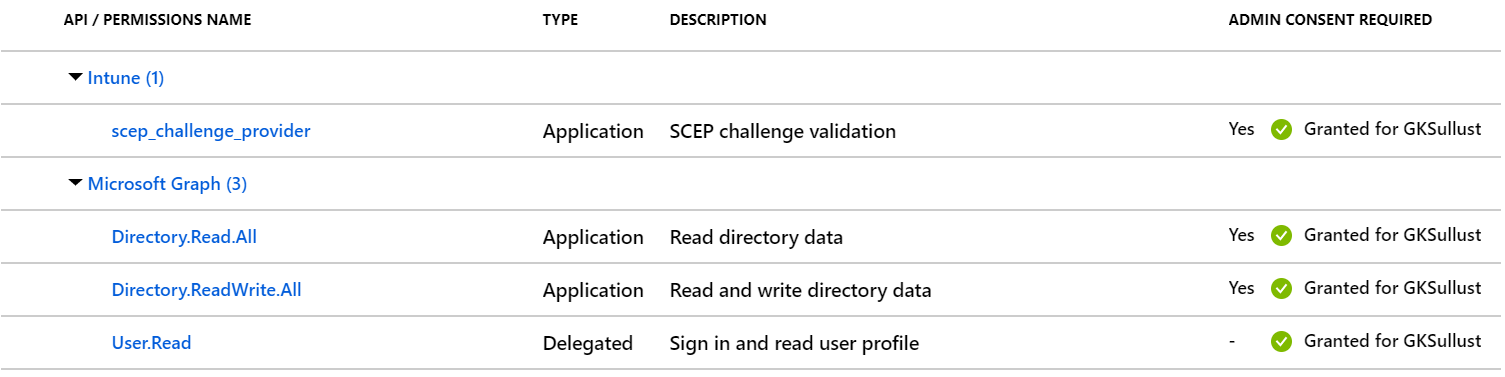
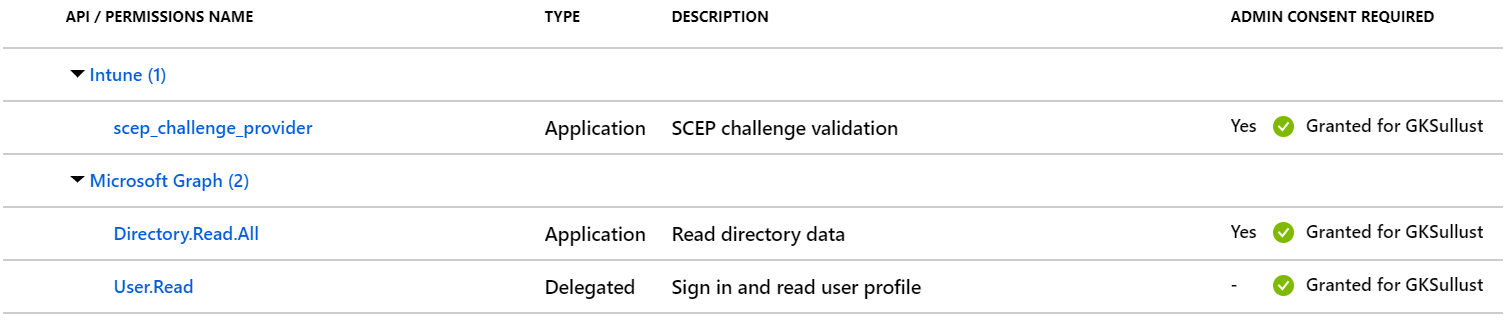
documentation update

diff --git a/README.md b/README.md
@@ -40,7 +40,7 @@ The intended implementation is a .net core C# based Azure WebApp providing the [
 5. Click **scep_challenge_provider** and confirm with **Add permission**
 6. Click **Add a permission** once again
 7. Select **Microsoft Graph**
-8. Expand **Dirctory** and check **Directory.Read.All** and **Directory.ReadWrite.All** and confirm with **Add permission**
+8. Expand **Dirctory** and check **Directory.Read.All** and confirm with **Add permission**
 9. Click **Grant admin consent** and confirm the displayed dialog with **Yes**
 ![Screenshot](./docs/images/5.png)
 
